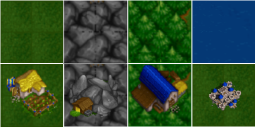
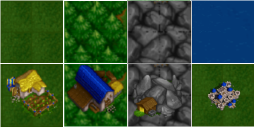
Fixed the tile to render the right tile.

diff --git a/LOCC/TileManager.h b/LOCC/TileManager.h
@@ -32,10 +32,10 @@ private:
 		
 
 		// quick fix for rendering the wrong tiles
-		if (id == 1)
-			id = 2;
-		else if (id == 2)
-			id = 1;
+		//if (id == 1)
+		//	id = 2;
+		//else if (id == 2)
+		//	id = 1;
 		RECT rSource;
 
 		rSource.left	= (id % 4) * m_nTileWidth;
